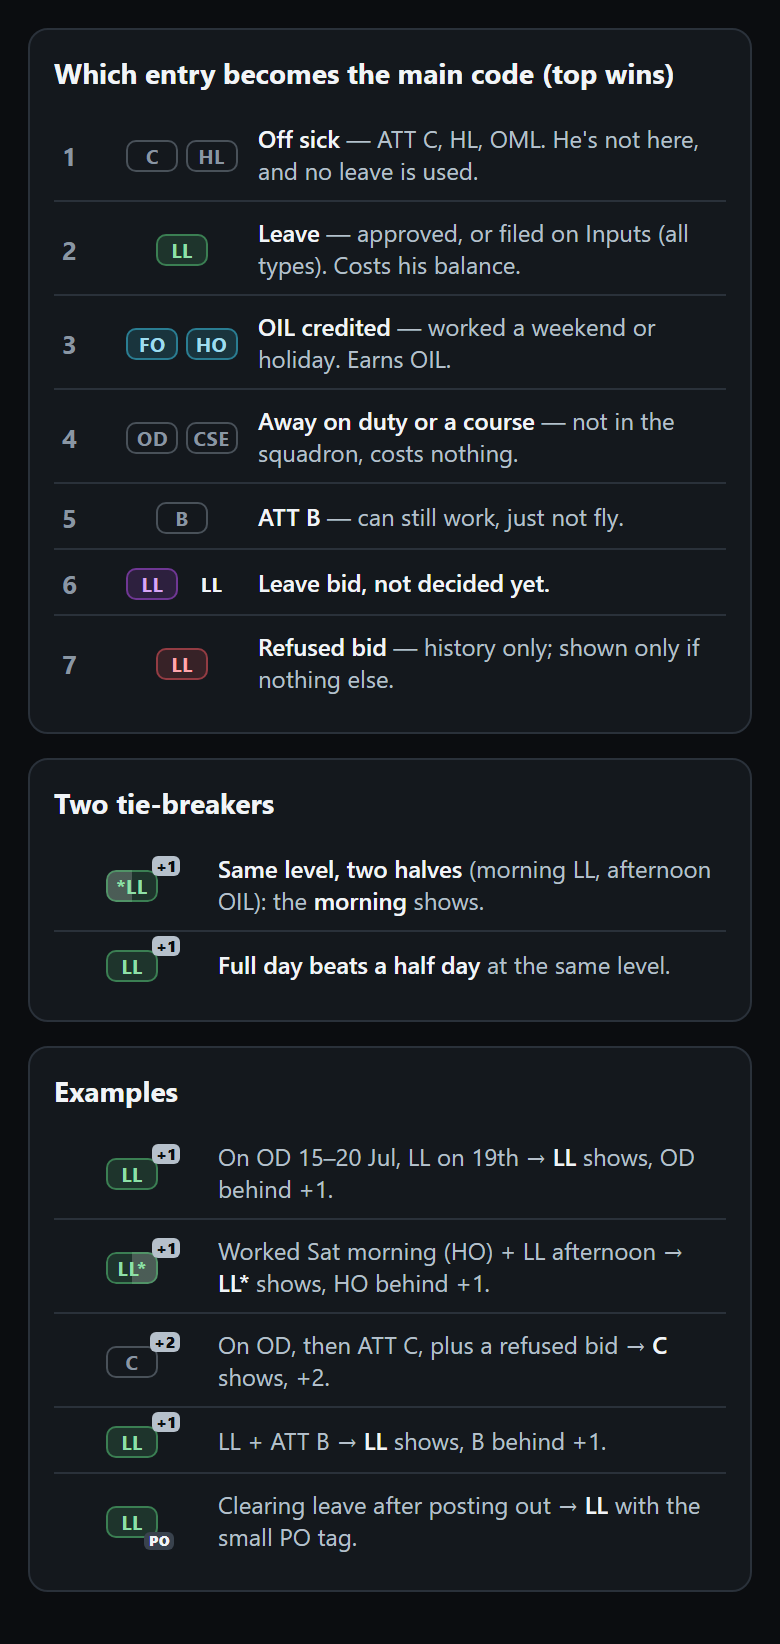
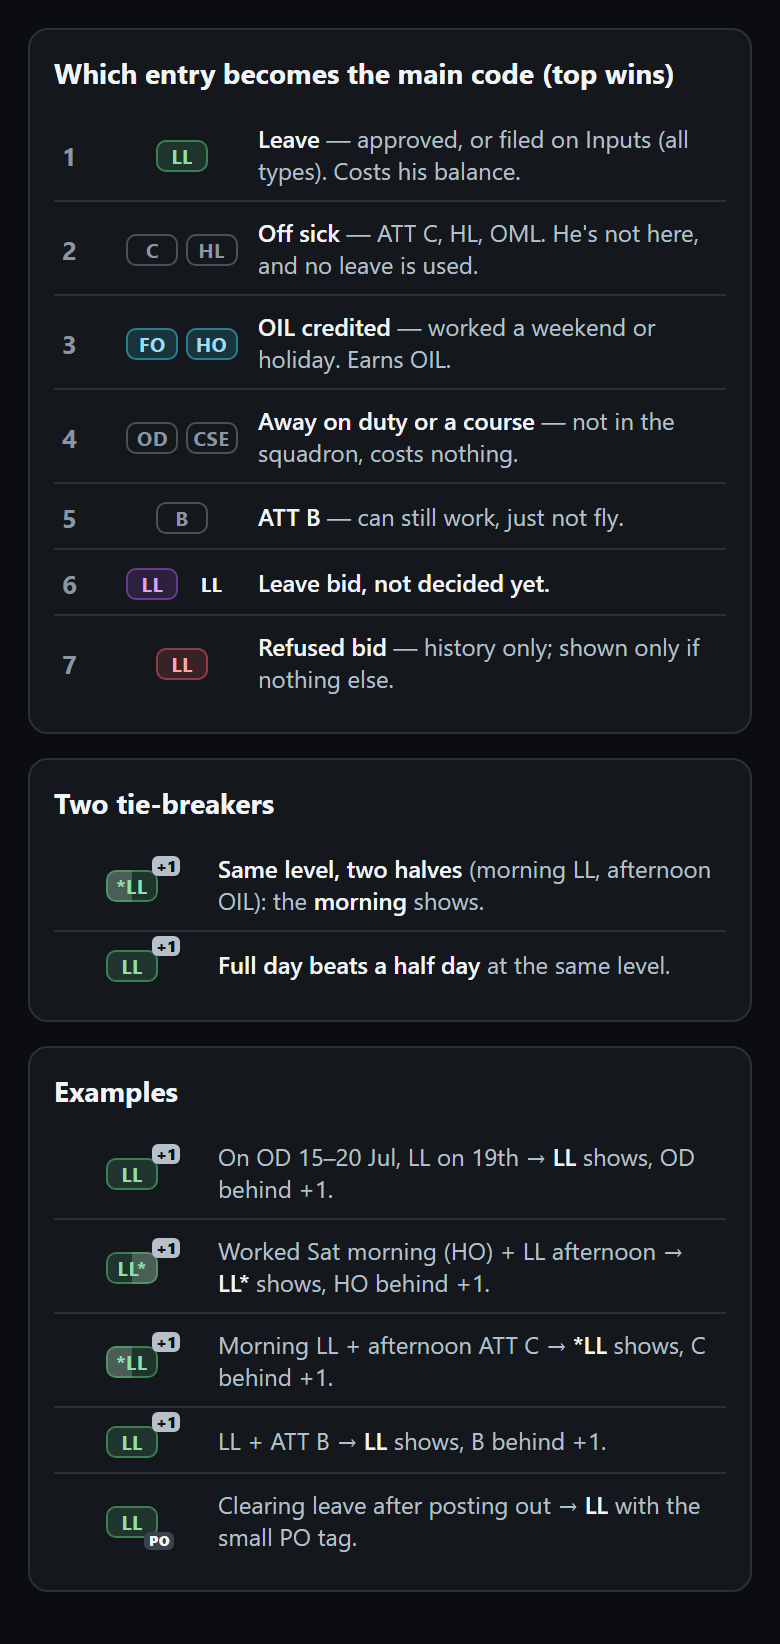
docs(arch-stack-4): main-code priority agreed (leave above sick)

diff --git a/raptor-port/docs/superpowers/specs/2026-09-19-arch-stack-4-clash-catalogue.md b/raptor-port/docs/superpowers/specs/2026-09-19-arch-stack-4-clash-catalogue.md
@@ -112,12 +112,14 @@ The acknowledgement is its own small stored note on the war (per person/day), un
 - **Side note (owner): an upchit is NOT work.** It never earns OIL, never counts as presence at work,
   and never blocks leave; it only ends a covering medical early (existing).
 
-## Main-code priority (host proposal 19 Sep 26, owner hint: "OIL credited / leave taken / medical taken are more important") — PENDING owner OK
+## Main-code priority — AGREED (owner 19 Sep 26: host proposal with leave moved above sick)
 
 Top wins the main code; everything else is behind the `+n` count (tap lists all). Comp:
-`docs/img/step4-main-code-ladder.png`.
-1. Off sick — ATT C, HL, OML (they replace leave anyway).
-2. Leave — approved or filed on Inputs, every type (costs the balance).
+`docs/img/step4-main-code-ladder.png`. Note: ATT C/HL/OML cut any leave they overlap and leave over
+them is refused, so levels 1 and 2 only ever meet on different halves of a day (e.g. morning LL +
+afternoon ATT C → `*LL +1`).
+1. Leave — approved or filed on Inputs, every type (costs the balance). (Owner: "show leave over sick.")
+2. Off sick — ATT C, HL, OML.
 3. OIL credited — FO / HO (earned).
 4. Away on duty or a course — OD, CSE (owner Q8: leave during them shows the leave).
 5. ATT B (can still work, just not fly).
